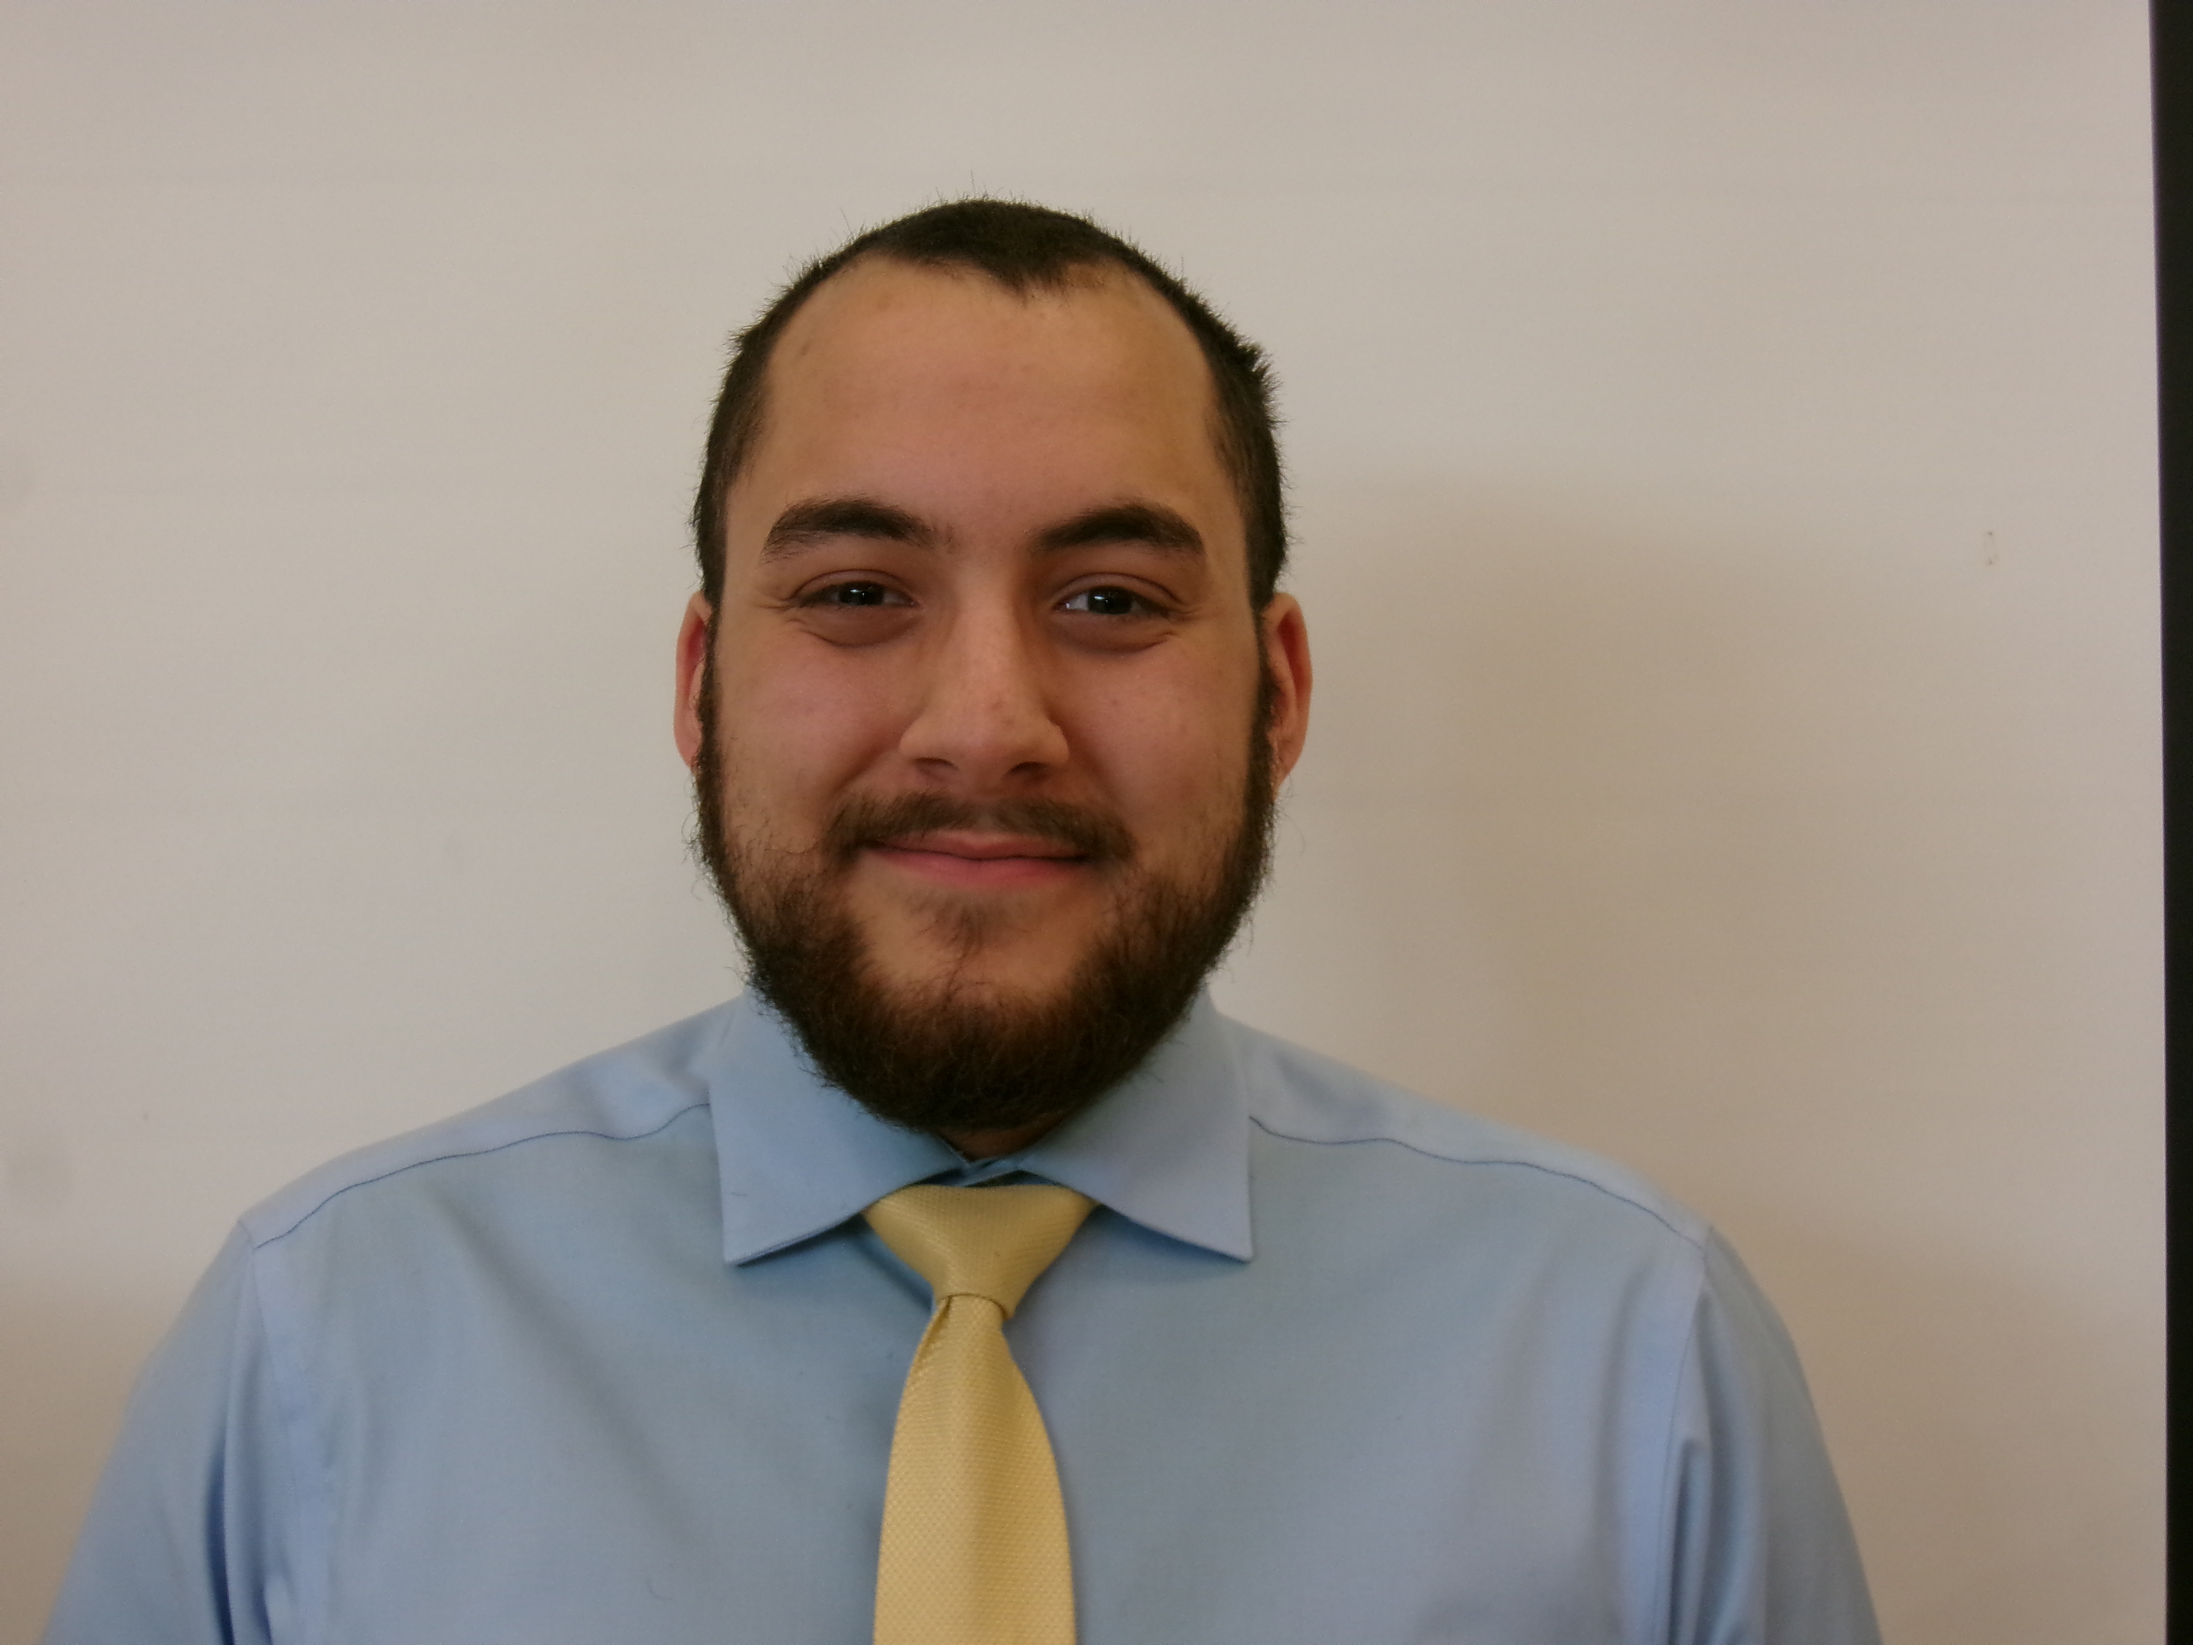
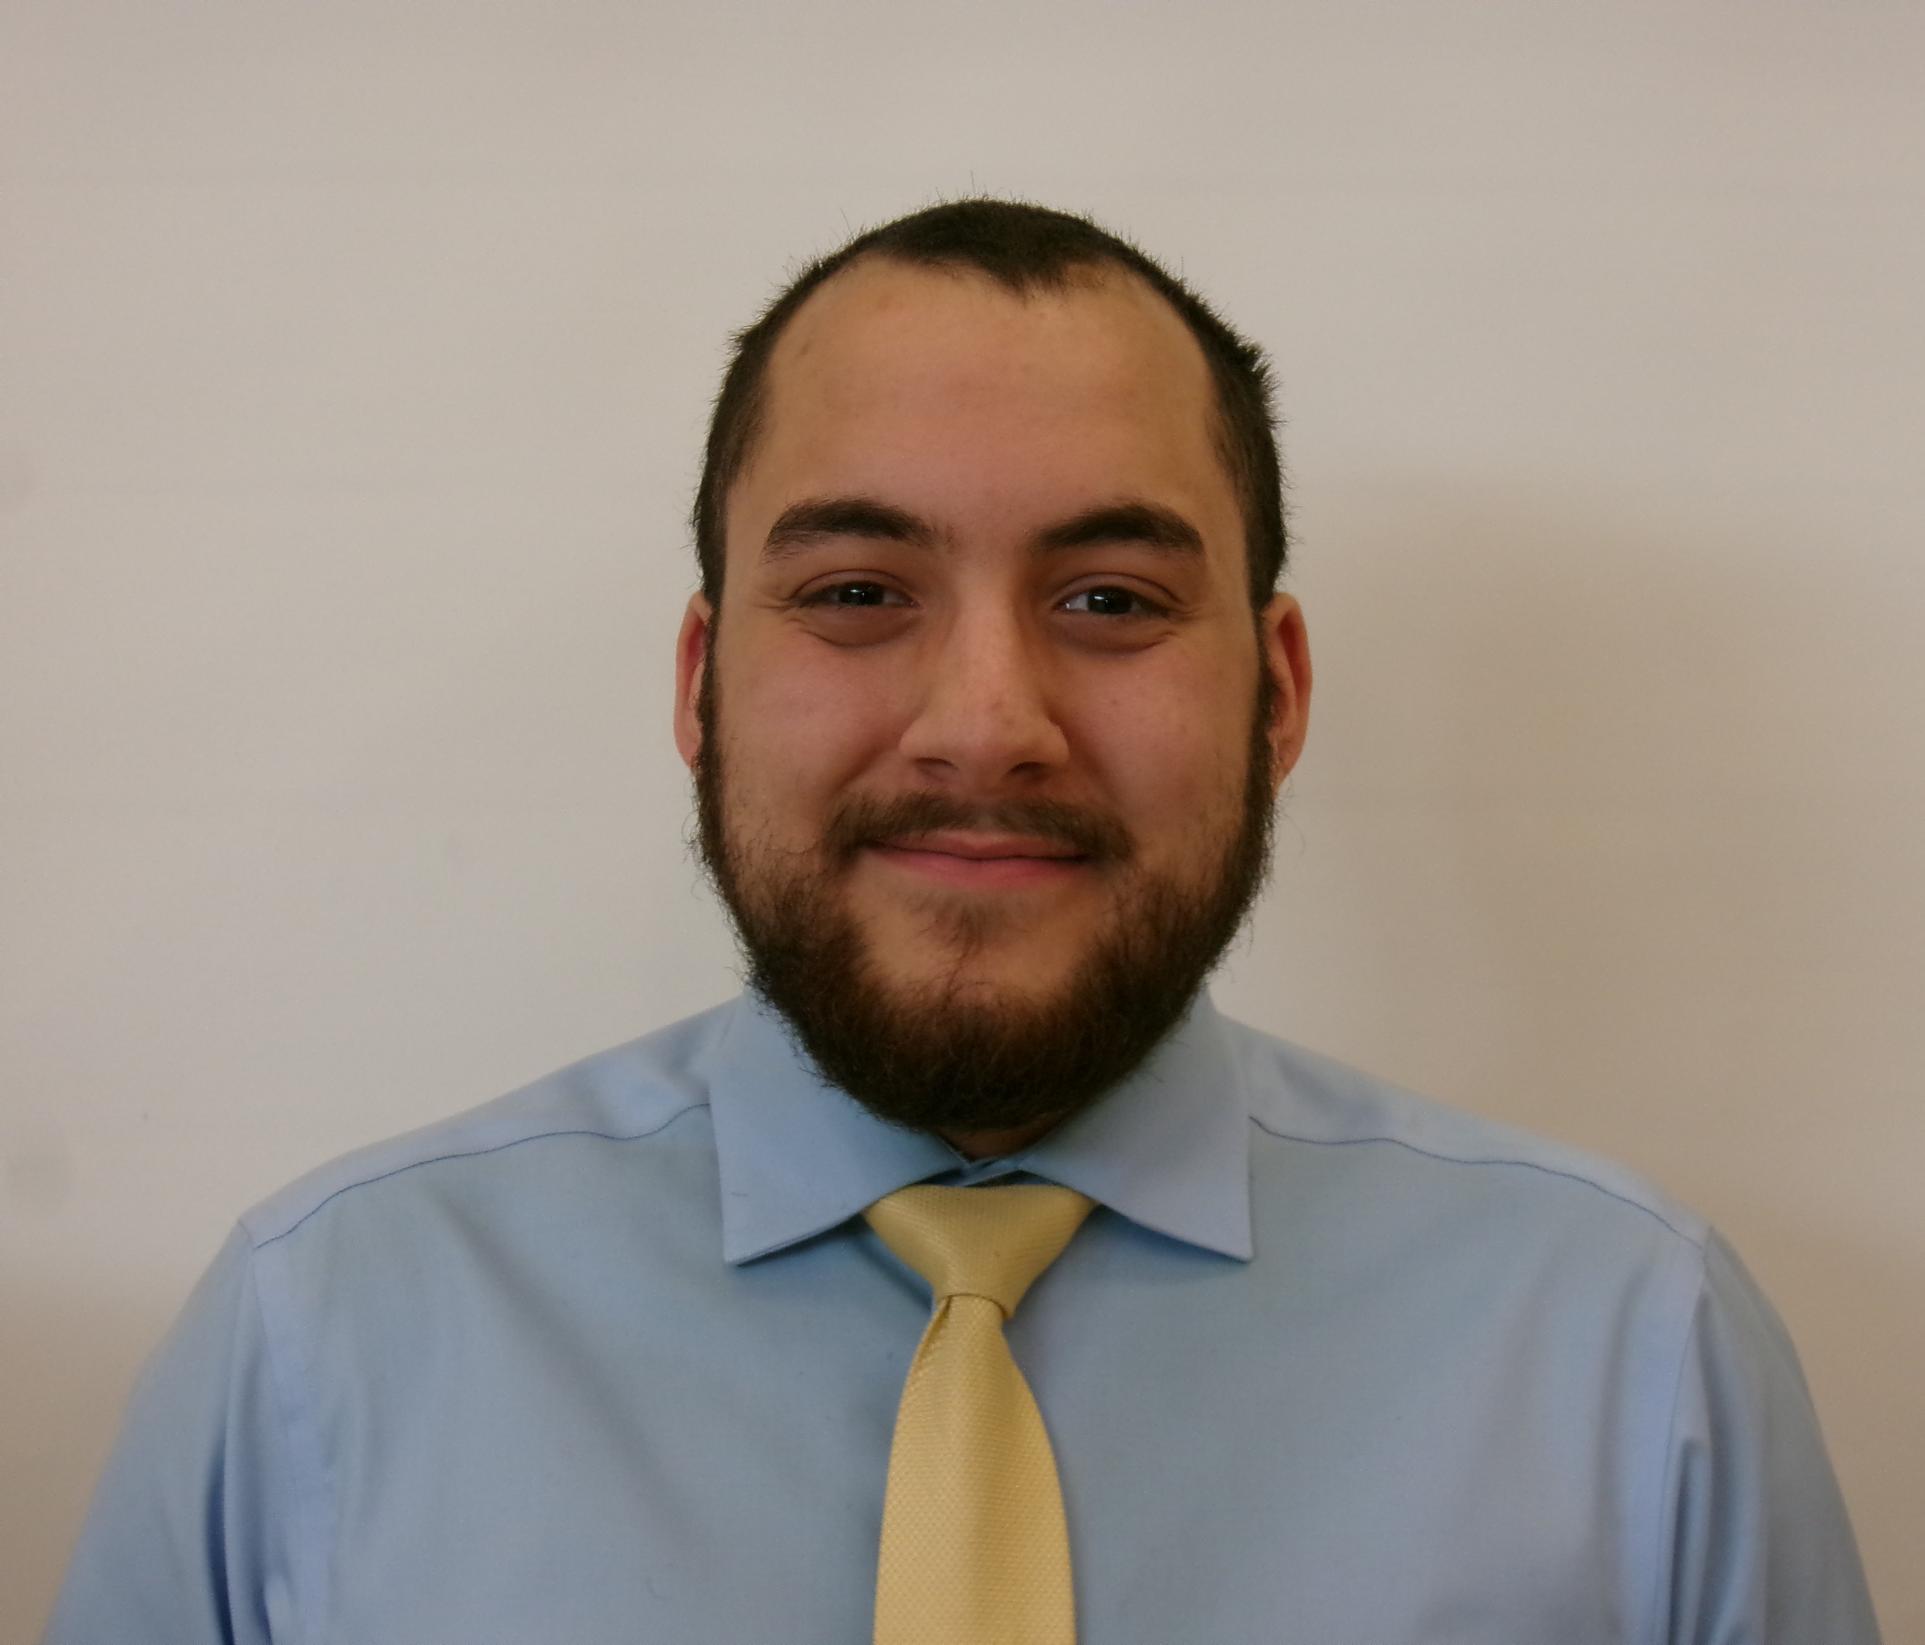
Fixed image

Changed region(s): [[0.0934, 0.0, 1.0, 1.0], [0.0934, 0.875, 0.1557, 1.0], [0.218, 0.7188, 0.2803, 0.8125]]

diff --git a/index.html b/index.html
@@ -26,7 +26,9 @@
     <section id = "about"> 
       <h1>About Me</h1>
       <div class = "Me">
-        <img src="" alt="Image of Darrian " id="ABI">
+        <div class = "myImage">
+          <img src="https://github.com/Darrian-Lambert/Darrian-Lambert.github.io/blob/main/112_0349.jpg?raw=true" alt="Image of Darrian " id="ABI">
+        </div>
         <p>
           My name is Darrian Lambert and this is my portfolio website! I am currently working towards my bachelor’s degree in computer information systems. Most of my experience is currently geared towards web development. I am currently learning skills to help develop other kinds of software. This portfolio can be navigated via the bar at the top of each web page. I want to start a long-term career that will allow me to get a home for myself. I am open to working in software development, IT, or similar positions. Thank you for taking the time to look through this website! If you are interested in contacting me for projects or potential interviews, the fastest way to contact me is via my email <a href="mailto:Darrianlambert14@gmail.com">Darrianlambert14@gmail.com</a>. You can find my LinkedIn at: <a target="_blank" href="https://www.linkedin.com/in/darrianlambert2023">My LinkedIn</a>.
         </p>
@@ -38,7 +40,7 @@
     </main>
     <footer id = "contact">
       <p>Contact me at <a href="mailto:Darrianlambert14@gmail.com">Darrianlambert14@gmail.com</a></p>
-      <p id = "updated">Last Updated: 1/21/2024</p>
+      <p id = "updated">Last Updated: 1/23/2024</p>
     </footer>
   </body>
 </html>
